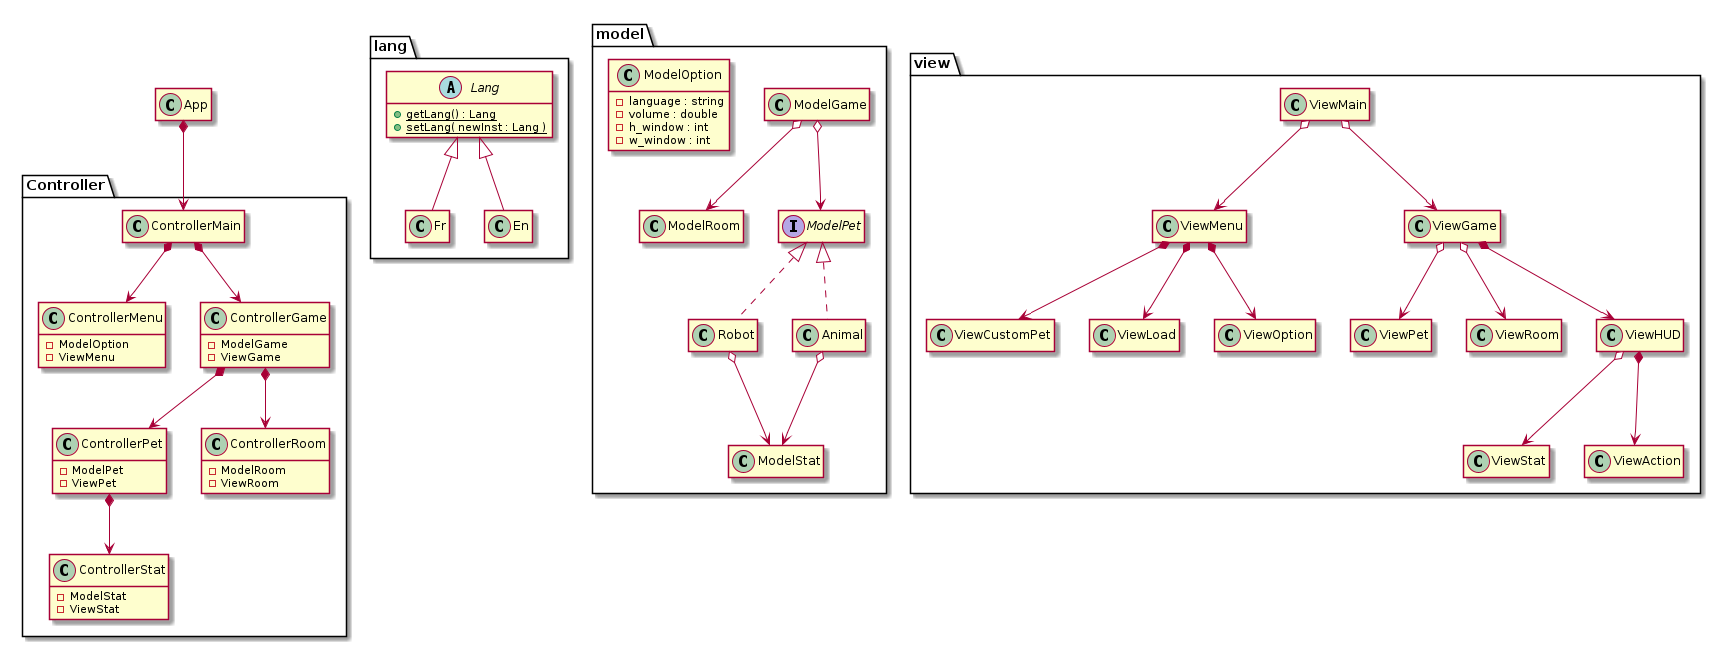
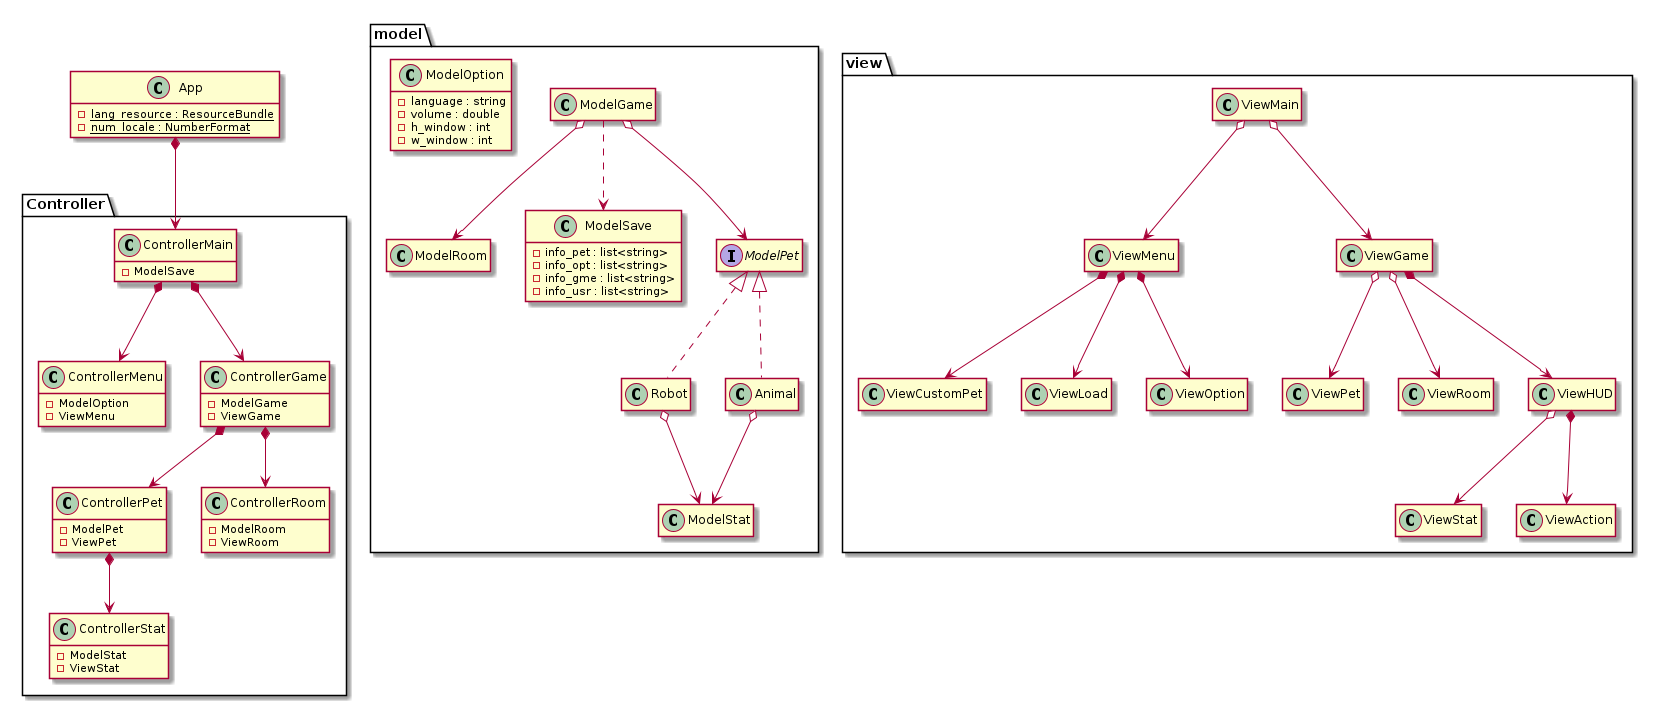
update : ajout de Save (pas encore fonctionnel) + modif diagram class

diff --git a/src/app/view/Action.java b/src/app/view/Action.java
@@ -15,11 +15,16 @@ import javafx.stage.PopupWindow.AnchorLocation;
 /**
  * 
  * @author ben
- * view.Action est de type VBox car elle sera vu en bas de l'écran de jeu
- * Elle permet de selectionner les actions du jeu 
+ * view.Action est de type HBox car elle sera vu en bas de l'écran de jeu
+ * Elle permet de selectionner les actions du jeu et d'aller au menu
  */
 public class Action extends HBox {
 	
+	//########################### ATTRIBUTS #####################################
+	
+	// On est obligé de faire un menu perso car
+	// le MenuBar de base n'est pas fait pour se 
+	// positionner en bas de l'écrant
 	private Button butMenu;
 	private Button butRoomMenu;
 	private CustomMenuItem butRoomA;
@@ -27,50 +32,59 @@ public class Action extends HBox {
 	private CustomMenuItem butRoomC;
 	private ContextMenu roomContextMenu;
 	
+	//######################### EVENT-ACTION ####################################
+	
 	private EventHandler<ActionEvent> click_room = new EventHandler<ActionEvent>() {
 		public void handle(ActionEvent e) {
 			//butRoomMenu.setDisable(true);
 			roomContextMenu.show(butRoomMenu, Side.TOP, 0, 0);
 		}
 	};
-	private EventHandler<ActionEvent> hide_room = new EventHandler<ActionEvent>() {
+	
+	/*private EventHandler<ActionEvent> hide_room = new EventHandler<ActionEvent>() {
 		public void handle(ActionEvent e) {
 			//butRoomMenu.setDisable(false);
 			roomContextMenu.hide();
 		}
-	};
+	};*/
+	
+	//############################ METHODES #####################################
 	
 	public Action() {
+		
+		//instanciations
 		butMenu = new Button("Menu");
 		butRoomMenu = new Button("Room");
-		
 		butRoomA = new CustomMenuItem(new Button("RoomA"));
 		butRoomB = new CustomMenuItem(new Button("RoomB"));
 		butRoomC = new CustomMenuItem(new Button("RoomC"));
 		roomContextMenu = new ContextMenu();
-		roomContextMenu.getItems().addAll(butRoomA, butRoomB, butRoomC);
 		
-		//roomContextMenu.setOnAction(hide_room);
-		butRoomMenu.setOnAction(click_room);
+		//assignation action
+		butRoomMenu.setOnAction(click_room); //Affiche les bouttons rooms quand on clique sur butRoomMenu
 		
+		//initalisations
 		updateStyle();
 		
+		//constructions de la vue
+		roomContextMenu.getItems().addAll(butRoomA, butRoomB, butRoomC);
 		this.getChildren().addAll(butRoomMenu, butMenu);
-		//roomContextMenu.setAnchorLocation(AnchorLocation.CONTENT_TOP_LEFT);
-
 	}
 	
+	/**
+	 * Met à jour le style de tous les éléments
+	 */
 	public void updateStyle() {
 		this.setPrefHeight(92);
 		butRoomMenu.setAlignment(Pos.CENTER);
 		butMenu.setAlignment(Pos.CENTER_RIGHT);
 	}
 	
+	/**
+	 * Utilisé par v.Main car alterne les vues game et menu
+	 * @param e ActionEvent qui doit être déclencher par le bouton butMenu
+	 */
 	public void setActionMenu(EventHandler<ActionEvent> e) {
 		butMenu.setOnAction(e);
 	}
-	
-	/*public void setActionMenu(EventHandler<ActionEvent> e) {
-		butMenu.setOnAction(e);
-	}*/
 }

diff --git a/src/app/model/Save.java b/src/app/model/Save.java
@@ -1,0 +1,104 @@
+package app.model;
+
+import java.io.File;
+import java.io.FileInputStream;
+import java.io.FileNotFoundException;
+import java.io.FileOutputStream;
+import java.io.FileReader;
+import java.io.FileWriter;
+import java.io.IOException;
+import java.util.Date;
+
+/**
+ * 
+ * @author ben
+ * Permet de sauvegarder un état données du jeu
+ */
+public class Save {
+
+	private Date date;
+	private File file;
+	private FileWriter out;//FileOutputStream out;
+	private FileReader in;//FileInputStream in;
+	private String info_game;
+
+	public Save(String pathname) {
+		date = new Date();
+		file = new File(pathname);
+		info_game = new String();
+		try {
+			out = new FileWriter(file);
+			out.write(date.toString()+System.lineSeparator());
+			out.close();
+		} catch ( IOException e) {
+			System.err.println(e.getMessage());
+		}
+		
+	}
+	
+	/**
+	 * JUSTE UN TEST PAS DEFINITIF
+	 * @param info
+	 */
+	public void addInfoGame(String info) {
+		info_game+=info;
+	}
+	
+	/**
+	 * JUSTE UN TEST PAS DEFINITIF
+	 */
+	public void saveToDisk() {
+		try {
+			out = new FileWriter(file, true);
+			out.write(info_game);
+			out.flush();
+			out.close();
+		} catch ( IOException e) {
+			System.err.println(e.getMessage());
+		}
+	}
+	
+	/**
+	 * JUSTE UN TEST PAS DEFINITIF
+	 * @param info
+	 */
+	public void addData(String info) {
+		try {
+			out = new FileWriter(file, true);
+			out.write(info);
+			out.flush();
+			out.close();
+		} catch ( IOException e) {
+			System.err.println(e.getMessage());
+		}
+	}
+	
+	/**
+	 * JUSTE UN TEST PAS DEFINITIF
+	 * @param info
+	 */
+	public String getData(String info) {
+		
+		char[] buff = new char[4096];
+		String result="";
+		int offset = 0;
+		
+		try {
+			in = new FileReader(file);
+			
+			while( (offset = in.read(buff, offset, buff.length)) != -1 ) {
+
+				result += new String(buff);
+			}
+			
+			in.close();
+			
+		} catch ( IOException e) {
+			System.err.println("unknown error : " + e);
+		} catch (IndexOutOfBoundsException e ) {
+			System.err.println("end of file : " + e);
+		}
+		
+		return result;
+	}
+}

diff --git a/src/app/controller/Main.java b/src/app/controller/Main.java
@@ -1,5 +1,8 @@
 package app.controller;
 
+import java.util.Date;
+
+import javafx.animation.AnimationTimer;
 import javafx.event.ActionEvent;
 import javafx.event.EventHandler;
 
@@ -14,11 +17,28 @@ public class Main {
 	//########################### ATTRIBUTS #####################################
 	
 	private app.view.Main view;
+	private app.model.Save save;
 	
 	private Menu menu;
 	private Game game;
 	
 	//######################### EVENT-ACTION ####################################
+	
+	/**
+	 * ActionLoop effectué toute les 1 second (1e+9 ns)
+	 * déclendeur -> this
+	 */ 
+	private AnimationTimer actionLoop = new AnimationTimer() {
+		int n_access=0; // compteur d'acces au fichier de sauvegarde
+		long old_time=0;
+        public void handle(long new_time) {
+			if (new_time > old_time ) {
+				old_time = new_time+(1<<30); // aproximativement une seconde
+				save.addData("Accès n°" + n_access++ + "\n");
+				System.out.print(save.getData("test")); // ne pas utiliser println pour des raisons obscure
+			}
+        }
+    };
 	
 	/**
 	 * ActionEvent effectué quand t-on veut charger une partie
@@ -30,15 +50,17 @@ public class Main {
 			menu.getView().closeLoad();
 		}
 	};
-	
+
 	//############################ METHODES #####################################
 
 	public Main() {
+		save = new app.model.Save("./res/save.tmg");
 		menu = new Menu();
 		game = new Game();
 		view = new app.view.Main( game.getView(), menu.getView() );
 		
 		menu.getView().getLoad().setValidateAction(load_file);
+		actionLoop.start();
 	}
 	
 	public app.view.Main getView() {
@@ -51,5 +73,12 @@ public class Main {
 	
 	public Game getGame() {
 		return game;
+	}
+	
+	/**
+	 * JUSTE UN TEST PAS DEFINITIF
+	 */
+	public void exit() {
+		save.saveToDisk();
 	}
 }

diff --git a/src/app/App.java b/src/app/App.java
@@ -11,7 +11,7 @@ import javafx.event.ActionEvent;
 import javafx.event.EventHandler;
 import javafx.scene.Scene;
 import javafx.stage.Stage;
-
+import javafx.stage.WindowEvent;
 //app import
 import app.controller.Main;
 
@@ -51,6 +51,18 @@ public class App extends Application{
 		}
 	};
 	
+	/**
+	 * WindowEvent pour sauvegarder si on ferme l'application
+	 * déclancheur -> c.Main -> m.Save
+	 */
+	private EventHandler<WindowEvent> close_app = new EventHandler<WindowEvent>() {
+		public void handle(WindowEvent e) {
+			mainController.exit();
+			System.out.println("Save done");
+			System.out.println(language.getString("bye"));
+		}
+	};
+
 	//############################ METHODES #####################################
 	
 	public void start(Stage stage) {
@@ -58,6 +70,7 @@ public class App extends Application{
 		// enregistre la référence pour pouvoir fair des actions dessus
 		this.stage = stage;
 		
+		stage.setOnCloseRequest(close_app);
 		//fichiers .properties requis accesible dans le ./res à mettre dans le dossier ./bin
 		//soit ./bin/language.properties et ./bin/language_en.properties
 		language = ResourceBundle.getBundle("language");
@@ -74,8 +87,6 @@ public class App extends Application{
 	}
 	
     public static void main(String[] args) {
-    	
         launch();
-        System.out.println(language.getString("bye"));
     }
 }

diff --git a/src/app/view/Main.java b/src/app/view/Main.java
@@ -35,7 +35,7 @@ public class Main extends StackPane {
 
 	/**
 	 * ActionEvent effectué quand t-on veut afficher le Menu
-	 * déclencheur -> this -> v.Game
+	 * déclencheur -> this -> v.Game -> v.Action
 	 */
 	private EventHandler<ActionEvent> click_open_menu = new EventHandler<ActionEvent>() {
 		public void handle(ActionEvent e) {

diff --git a/src/app/view/Menu.java b/src/app/view/Menu.java
@@ -107,7 +107,7 @@ public class Menu extends StackPane {
 		buttonLoad.setOnAction(click_load);
 		load.setQuitAction(click_quit_load);
 		
-		//initalisatons
+		//initalisations
 		updateText();
 		updateStyle();
 		
